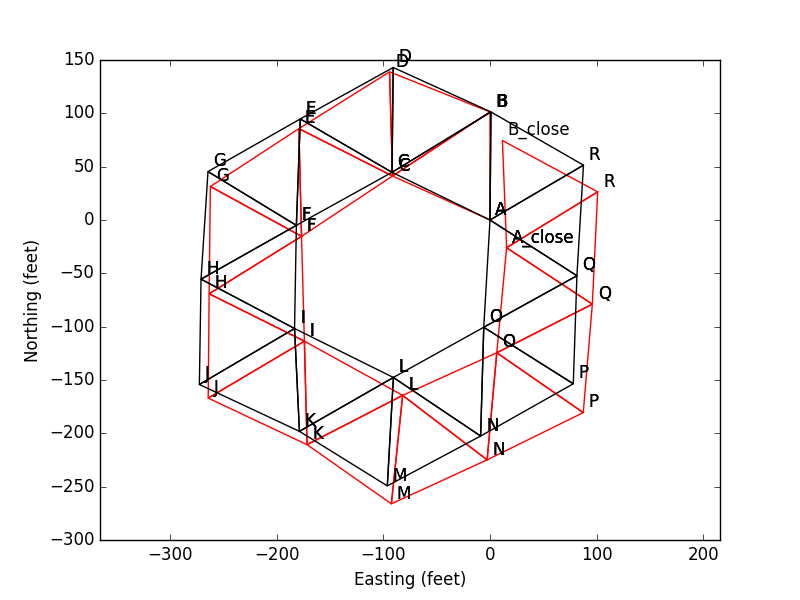
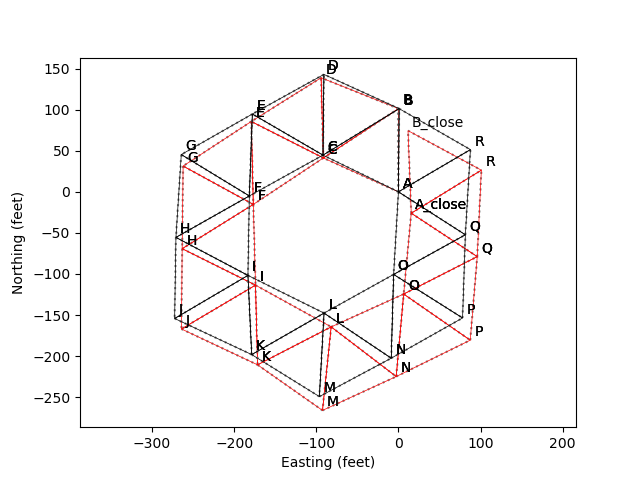
Updating code

diff --git a/triangle_survey.py b/triangle_survey.py
@@ -91,7 +91,7 @@ def add_triangle(points, triangle):
         # If all three points are already solved, don't do anything else.
         return points
 
-    print 'adding: ', triple, sides
+    print('adding: ', triple, sides)
 
     points[triple[2]] = solve_triangle(
         points[triple[0]],
@@ -137,16 +137,16 @@ class TriangleSurvey:
             if re.search('^FRACTIONAL ERROR', line):
                 # Set the current fractional error
                 group = line.strip().split()
-                self.current_fractional_error = float(group[4])
+                self.current_fractional_error = float(group[3])
                 continue 
             if re.search('^ABSOLUTE ERROR', line):
                 # Set the current absolute error
                 group = line.strip().split()
-                self.current_absolute_error = float(group[4])
+                self.current_absolute_error = float(group[3])
                 continue 
 
             group = line.strip().split()
-            print group
+            print(group)
 
             if len(group) == 3:
                 self.triangles.append(tuple(group))
@@ -154,7 +154,7 @@ class TriangleSurvey:
             if len(group) == 4:
                 assert(group[2] == '=')
                 pair = self.constraint_label(group[0], group[1])
-                print pair
+                print(pair)
                 length = float(group[3])
                 self.constraints[pair] = (length, 
                     self.current_fractional_error * length + self.current_absolute_error)
@@ -162,7 +162,7 @@ class TriangleSurvey:
             if len(group) == 5:
                 assert(group[2] == '=')
                 pair = self.constraint_label(group[0], group[1])
-                print pair
+                print(pair)
                 length = float(group[3])
                 error = float(group[4])
                 self.constraints[pair] = (length, error)
@@ -178,10 +178,10 @@ class TriangleSurvey:
             for t in self.triangles:
                 f.write('%s %s %s\n' % t)
             f.write('\n')
-            keys = self.constraints.keys()
+            keys = list(self.constraints.keys())
             keys.sort()
             for k in keys:
-                print k
+                print(k)
                 c = self.constraints[k]
                 f.write('%s %s = %g %g\n' % (k[0], k[1], c[0], c[1]))
             f.close()
@@ -207,10 +207,10 @@ class TriangleSurvey:
 
         if triple[2] in self.points:
             # If all three points are already solved, don't do anything else.
-            print 'All points already solved: ', labels
+            print('All points already solved: ', labels)
             return 
 
-        print 'Adding point: ', tuple(triple), tuple(sides)
+        print('Adding point: ', tuple(triple), tuple(sides))
 
         self.points[triple[2]] = solve_triangle(
             self.points[triple[0]],
@@ -239,18 +239,20 @@ class TriangleSurvey:
             p0 = self.points[c[0]]
             p1 = self.points[c[1]]
             xy = np.vstack((p0, p1))
-            mpl.plot(xy[:,0], xy[:,1], color=(0.5,0.5,0.5))
-             
+            if self.constraints[c][1] > 0.2:
+                mpl.plot(xy[:,0], xy[:,1], color=(0.5,0.5,0.5), linestyle=':')
+            else:
+                mpl.plot(xy[:,0], xy[:,1], color=(0.5,0.5,0.5))
+
         for t in self.triangles:
             p0 = self.points[t[0]]
             p1 = self.points[t[1]]
             p2 = self.points[t[2]]
             xy = np.vstack((p0, p1, p2, p0))
-            mpl.plot(xy[:,0], xy[:,1], color)
+            mpl.plot(xy[:,0], xy[:,1], color, linewidth=0.5)
             mpl.text(p0[0]+dx, p0[1]+dy, t[0])
             mpl.text(p1[0]+dx, p1[1]+dy, t[1])
             mpl.text(p2[0]+dx, p2[1]+dy, t[2])
-
 
     def plot_points(self, color='+b', dx=5, dy=5):
         point_set = set() 
@@ -263,14 +265,13 @@ class TriangleSurvey:
             mpl.plot(p0[0], p0[1], color)
             mpl.text(p0[0]+dx, p0[1]+dy, p)
 
-
     def calculate_closure(self, point_list):
         total = 0
         for i in range(len(point_list)-1):
             a = self.points[point_list[i]]
             b = self.points[point_list[i+1]]
             total += dist(a, b)
-            
+
         a = self.points[point_list[0]]
         b = self.points[point_list[-1]]
         error = dist(a, b)
@@ -278,24 +279,25 @@ class TriangleSurvey:
         return error, total
 
     def print_stats(self):
-        print '%d triangles' % len(self.triangles)
-        print '%d distances' % len(self.constraints)
-        print '%d points' % len(self.points)
+        print('%d triangles' % len(self.triangles))
+        print('%d distances' % len(self.constraints))
+        print('%d points' % len(self.points))
 
     def identify_points(self):
         def relabel(p):
             return re.sub('_close.*', '', p)
 
-        self.new_constraints = {}
+        new_constraints = {}
 
         keys = self.constraints.keys()
         for key in keys:
             k0 = relabel(key[0])
             k1 = relabel(key[1])
             key2 = self.constraint_label(k0, k1)
-            self.new_constraints[key2] = self.constraints[key]
+            new_constraints[key2] = self.constraints[key]
 
-        self.new_triangles = [(relabel(t[0]), relabel(t[1]), relabel(t[2])) for t in self.triangles]
+        self.constraints = new_constraints
+        self.triangles = [(relabel(t[0]), relabel(t[1]), relabel(t[2])) for t in self.triangles]
 
     def transform_affine(self, fixed):
         """
@@ -340,7 +342,7 @@ class TriangleSurvey:
 
                 vec[2*i] = f[1]
                 vec[2*i+1] = f[2]
-            
+
             coeff, resid, rank, s = np.linalg.lstsq(mat, vec)
             a, b, c, d, e, f = tuple(coeff)
 
@@ -353,16 +355,15 @@ class TriangleSurvey:
                 y2 = c * x + d * y + f
                 self.points[label][0] = x2
                 self.points[label][1] = y2
-             
 
     def optimize_triangles(self, fixed=None):
         #point_labels = self.points.keys()
         #point_labels.sort()
 
-        con_labels = self.new_constraints.keys()
+        con_labels = list(self.constraints.keys())
         con_labels.sort()
-
-        self.triangles = self.new_triangles
+        print('constraint labels = ', con_labels)
+        print('self.triangles = ', self.triangles)
         
         point_labels = set()
         for c in con_labels:
@@ -377,21 +378,23 @@ class TriangleSurvey:
 
         point_labels = list(point_labels)
         point_labels.sort()
-        point_labels = point_labels[dof_subtract:]
 
-        x0 = np.zeros(2*len(point_labels), dtype='double')
+        print('%d points = %d degrees of freedom' % (len(point_labels), 2 * len(point_labels)))
+        print('%d points = %d degrees of freedom' % (len(point_labels) - dof_subtract,
+            2 * len(point_labels) - 2 * dof_subtract))
+
+        x0 = np.zeros(2*(len(point_labels) - dof_subtract), dtype='double')
         i = 0
         # skip the first point
-        for p in point_labels:
+        for p in point_labels[dof_subtract:]:
             x0[i] = self.points[p][0]
             x0[i+1] = self.points[p][1]
             i += 2
 
-        def x2points(x):
+        def x_to_points(x):
             i = 0
             points = {}
             points[point_labels[0]] = self.points[point_labels[0]]
-            #points[point_labels[1]] = self.points[point_labels[1]]
             if fixed:
                 for fix in fixed:
                     points[fix[0]] = np.array((fix[1], fix[2]))
@@ -402,75 +405,80 @@ class TriangleSurvey:
             
         # Function to optimize
         def func(x): 
-            points = x2points(x)
-            
+            points = x_to_points(x)
+
             dy = np.zeros(len(con_labels), dtype='double')
             for i, k in enumerate(con_labels):
                 a = points[k[0]]
                 b = points[k[1]]
                 d1 = dist(a, b)
-                con = self.new_constraints[k]
+                con = self.constraints[k]
                 dy[i] = (con[0] - d1) / con[1]
 
-            print np.sum(dy**2)
+            print(np.sum(dy**2))
 
             return dy 
-        
+
         result = scipy.optimize.leastsq(func, x0)    
-        print result
+        print(result)
 
         x = result[0]
-        self.points = x2points(x)
+        self.points = x_to_points(x)
 
         return result
 
     def write_points(self, filename='points.dat'):
-        keys = self.points.keys()
+        keys = list(self.points.keys())
         keys.sort()
-        
+
         with open(filename, 'w') as f:
             for k in keys:
                 p = self.points[k]
                 f.write('%15.6f %15.6f %s\n' % (p[0], p[1], k))
 
+    #def write_constraints(self, filename='constraints.dat'):
+    #    with open(filename, 'w') as f:
+
+
 def foo():
     ts = TriangleSurvey()
-    #ts.load('survey1.dat')
-    ts.load('survey2.dat')
+    tag = 'survey2'
+    ts.load(tag+'.dat')
     ts.solve_triangles()
     ts.print_stats()
 
-    print ts.triangles
-    print ts.points
+    print(ts.triangles)
+    print(ts.points)
 
-    inner = ['A', 'C', 'F', 'I', 'L', 'O', 'A_close']
-    outer = ['B', 'D', 'E', 'G', 'H', 'J', 'K', 'M', 'N', 'P', 'Q', 'R', 'B_close']
-    print ts.calculate_closure(inner)
-    print ts.calculate_closure(outer)
+    #inner = ['A', 'C', 'F', 'I', 'L', 'O', 'A_close']
+    #outer = ['B', 'D', 'E', 'G', 'H', 'J', 'K', 'M', 'N', 'P', 'Q', 'R', 'B_close']
+    #print ts.calculate_closure(inner)
+    #print ts.calculate_closure(outer)
 
     mpl.figure(1)
-    ts.identify_points()
     ts.plot_triangles(color='r')
     mpl.axes().set_aspect('equal', 'datalim')
     mpl.xlabel('Easting (feet)')
     mpl.ylabel('Northing (feet)')
-    mpl.savefig('survey2_uncorrected.png')
+    mpl.savefig(tag+'_uncorrected.png')
 
-    ts.write_points('survey2_points.dat')
+    ts.identify_points()
+    ts.write_points(tag+'_points.dat')
 
     res = ts.optimize_triangles()
-    ts.write_points('survey2_points_optimized.dat')
+    ts.write_points(tag+'_points_optimized.dat')
     
     ts.plot_triangles(color='k')
     mpl.axes().set_aspect('equal', 'datalim')
-    mpl.savefig('survey2_both.png')
+    mpl.savefig(tag+'_both.png')
 
     mpl.figure(2)
-    ts.plot_triangles(color='k')
+    ts.plot_triangles(color='k', dx=1, dy=1)
     mpl.axes().set_aspect('equal', 'datalim')
     mpl.xlabel('Easting (feet)')
     mpl.ylabel('Northing (feet)')
-    mpl.savefig('survey2_corrected.png')
+    mpl.tight_layout()
+    mpl.savefig(tag+'_corrected.png', dpi=300)
 
     mpl.show()
 
